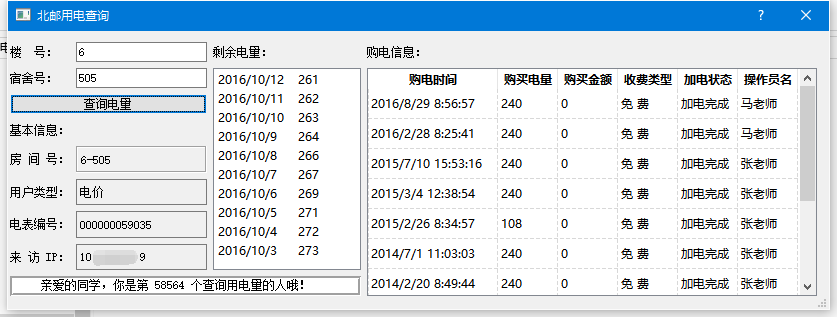
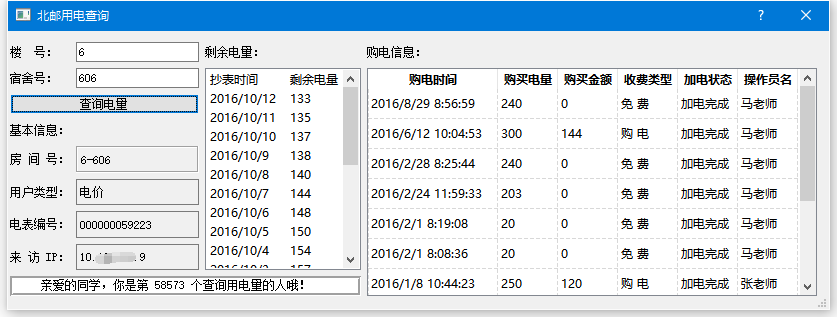
update listWgt_time_energy

diff --git a/ydcx.cpp b/ydcx.cpp
@@ -16,7 +16,7 @@ ydcx::ydcx(QWidget *parent) :
     ui->tblWgt_goudian->setColumnWidth(3,60);
     ui->tblWgt_goudian->setColumnWidth(4,60);
     ui->tblWgt_goudian->setColumnWidth(5,60);
-
+    ui->listWgt_time_energy->addItem(u8"抄表时间\t剩余电量");
     QTextCodec::setCodecForLocale(QTextCodec::codecForName("UTF-8"));
     setWindowTitle(tr(u8"北邮用电查询"));
     connect(ui->bt_search,SIGNAL(clicked()),this,SLOT(bt_search_clicked()));
